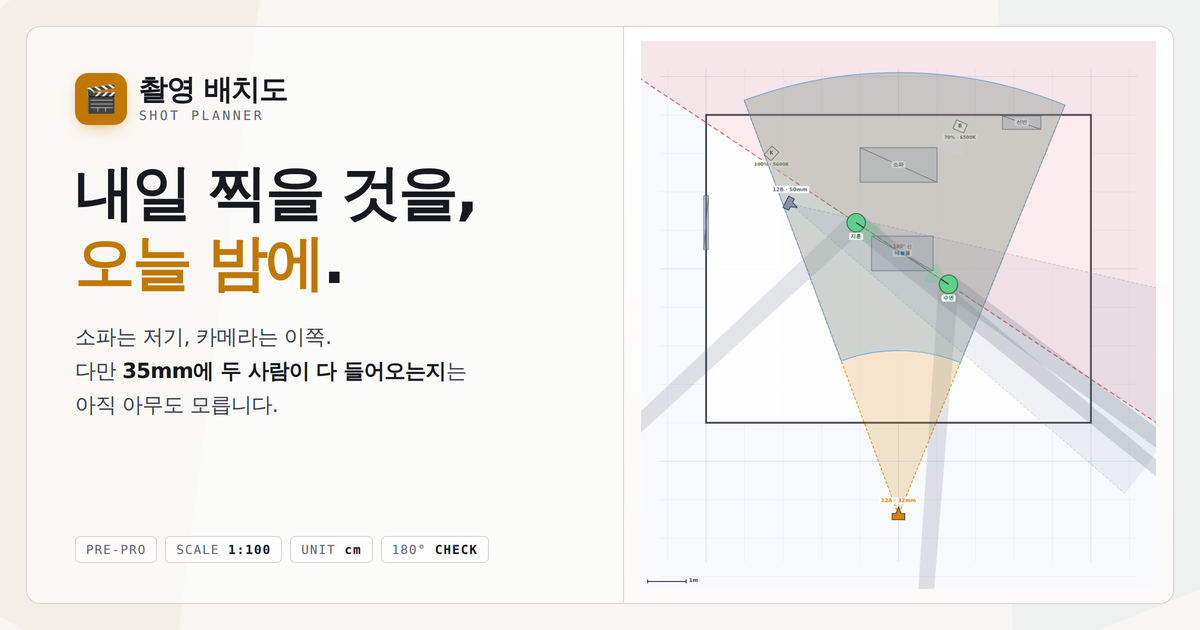
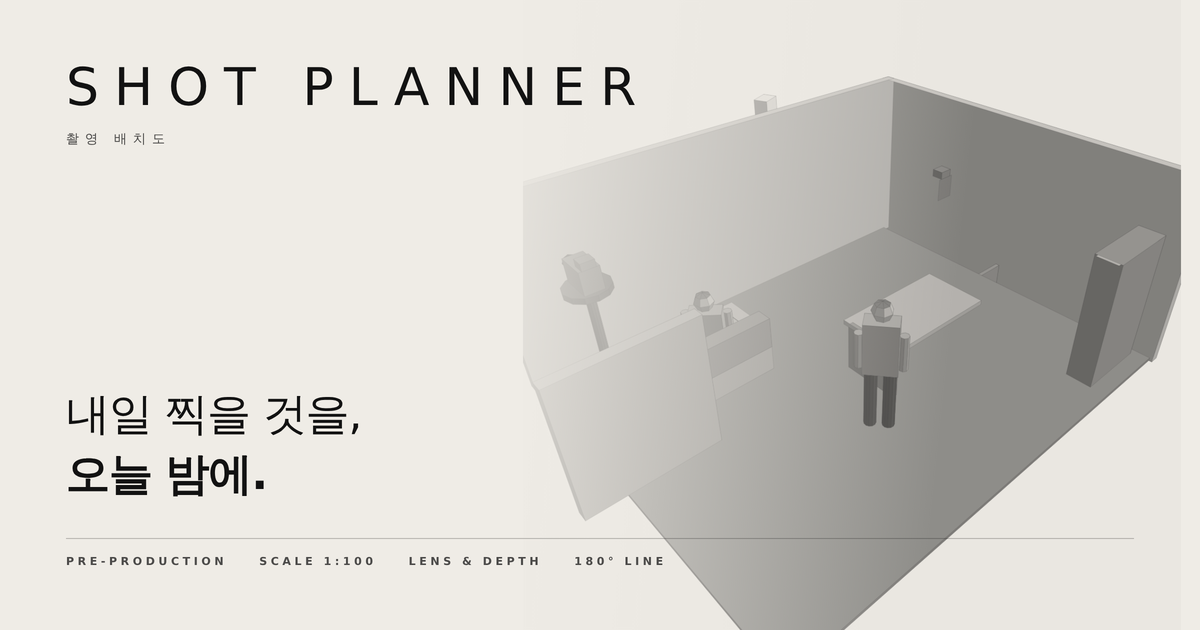
미리보기 카드를 다시 — 색을 빼고, 옆은 3D 모형으로
베이지에 주황 그라데이션, 이모지, 둥근 이중 테두리, 알약 배지. 촌스러웠다.
색을 전부 걷어내고 종이와 흑연만 남겼다.

워드마크를 영문으로 세웠다. SHOT PLANNER 를 크게, 촬영 배치도는 그 아래
작은 이름표로. 제작사 로고가 그렇게 생겼다.

옆에는 평면도 대신 조감도 렌더러로 세트를 세워 모형처럼 찍었다. 색을 지우고
밝기를 종이 위에 얹히는 폭으로 눌렀다. 방을 6.2×5m 로 좁혀 사람이 읽히게 했다.

글씨는 종이 대비 15.9:1 / 7.4:1 로 올렸다. 전에는 3.3:1 이라 흐렸다.

Claude-Session: https://claude.ai/code/session_01FwSUwAwubHSn7dghU3ZYGi

diff --git a/shot-planner/index.html b/shot-planner/index.html
@@ -20,12 +20,12 @@
 <meta property="og:image:type" content="image/png">
 <meta property="og:image:width" content="1200">
 <meta property="og:image:height" content="630">
-<meta property="og:image:alt" content="촬영 배치도 화면 — 세트 평면도 위에 카메라 화각과 180° 선이 그려져 있다">
+<meta property="og:image:alt" content="SHOT PLANNER — 세트를 3D 모형으로 세워 두고, 카메라와 배우를 올려 본 모습">
 <meta name="twitter:card" content="summary_large_image">
 <meta name="twitter:title" content="촬영 배치도 — 내일 찍을 것을, 오늘 밤에">
 <meta name="twitter:description" content="소파는 저기, 카메라는 이쪽. 다만 35mm에 두 사람이 다 들어오는지는 아직 아무도 모릅니다.">
 <meta name="twitter:image" content="https://yellow8227-cmd.github.io/char-counter/og.png">
-<meta name="twitter:image:alt" content="촬영 배치도 화면 — 세트 평면도 위에 카메라 화각과 180° 선이 그려져 있다">
+<meta name="twitter:image:alt" content="SHOT PLANNER — 세트를 3D 모형으로 세워 두고, 카메라와 배우를 올려 본 모습">
 </head>
 <body style="margin:0">
 <style>
